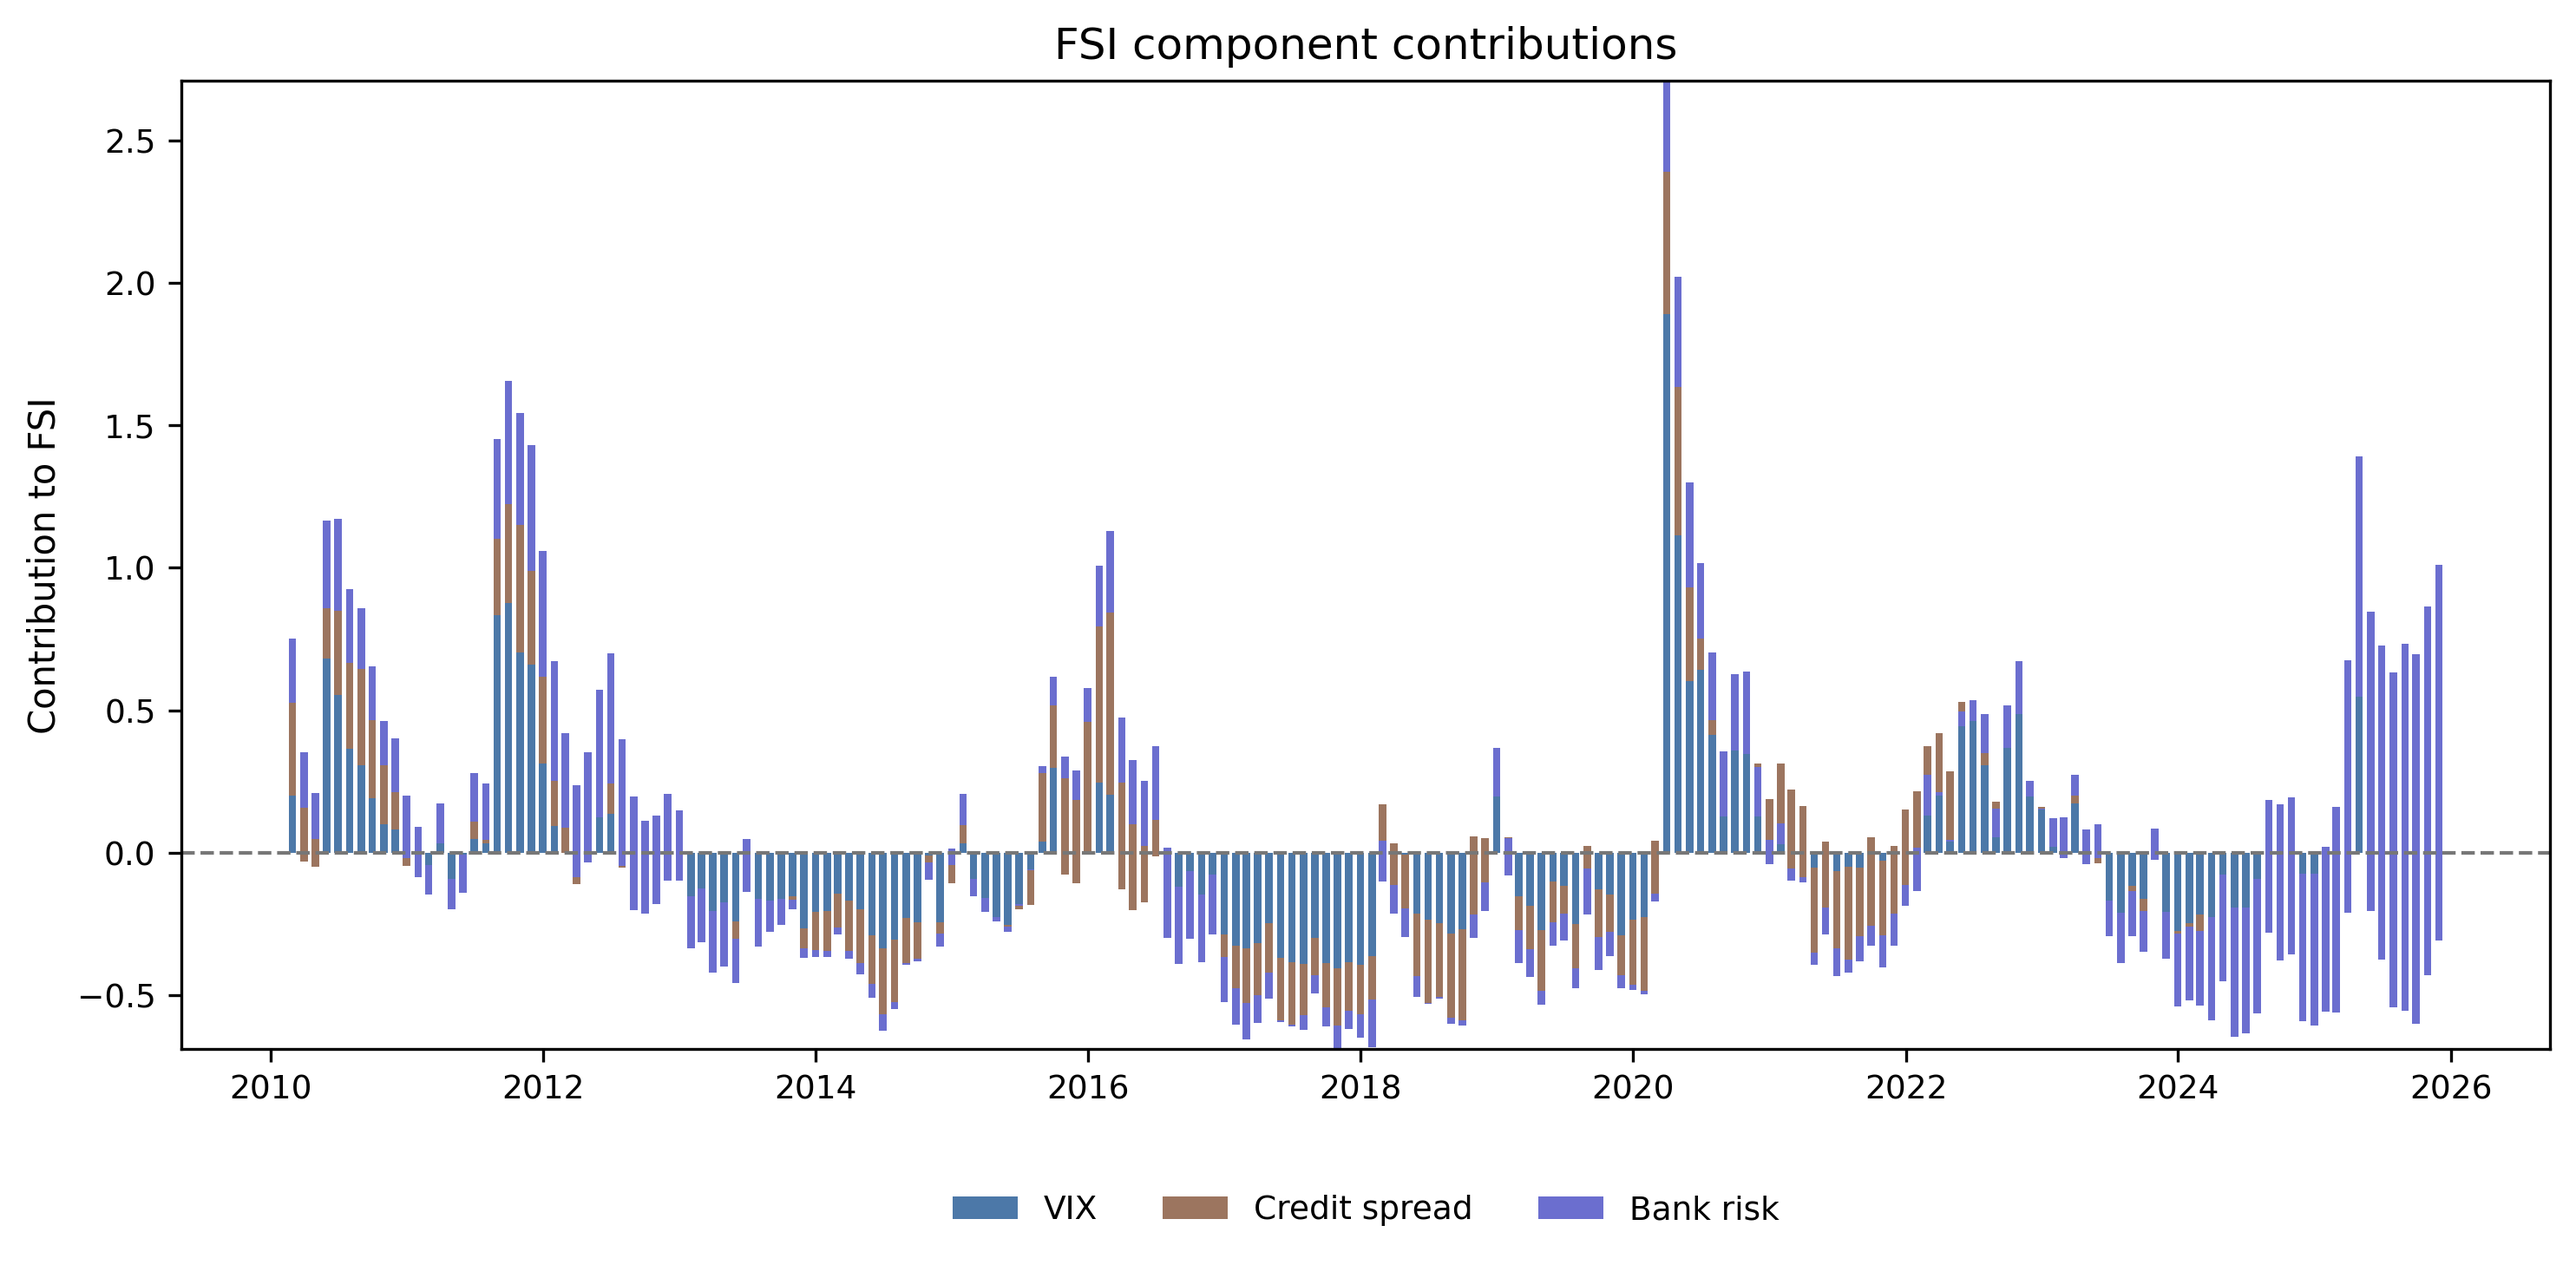
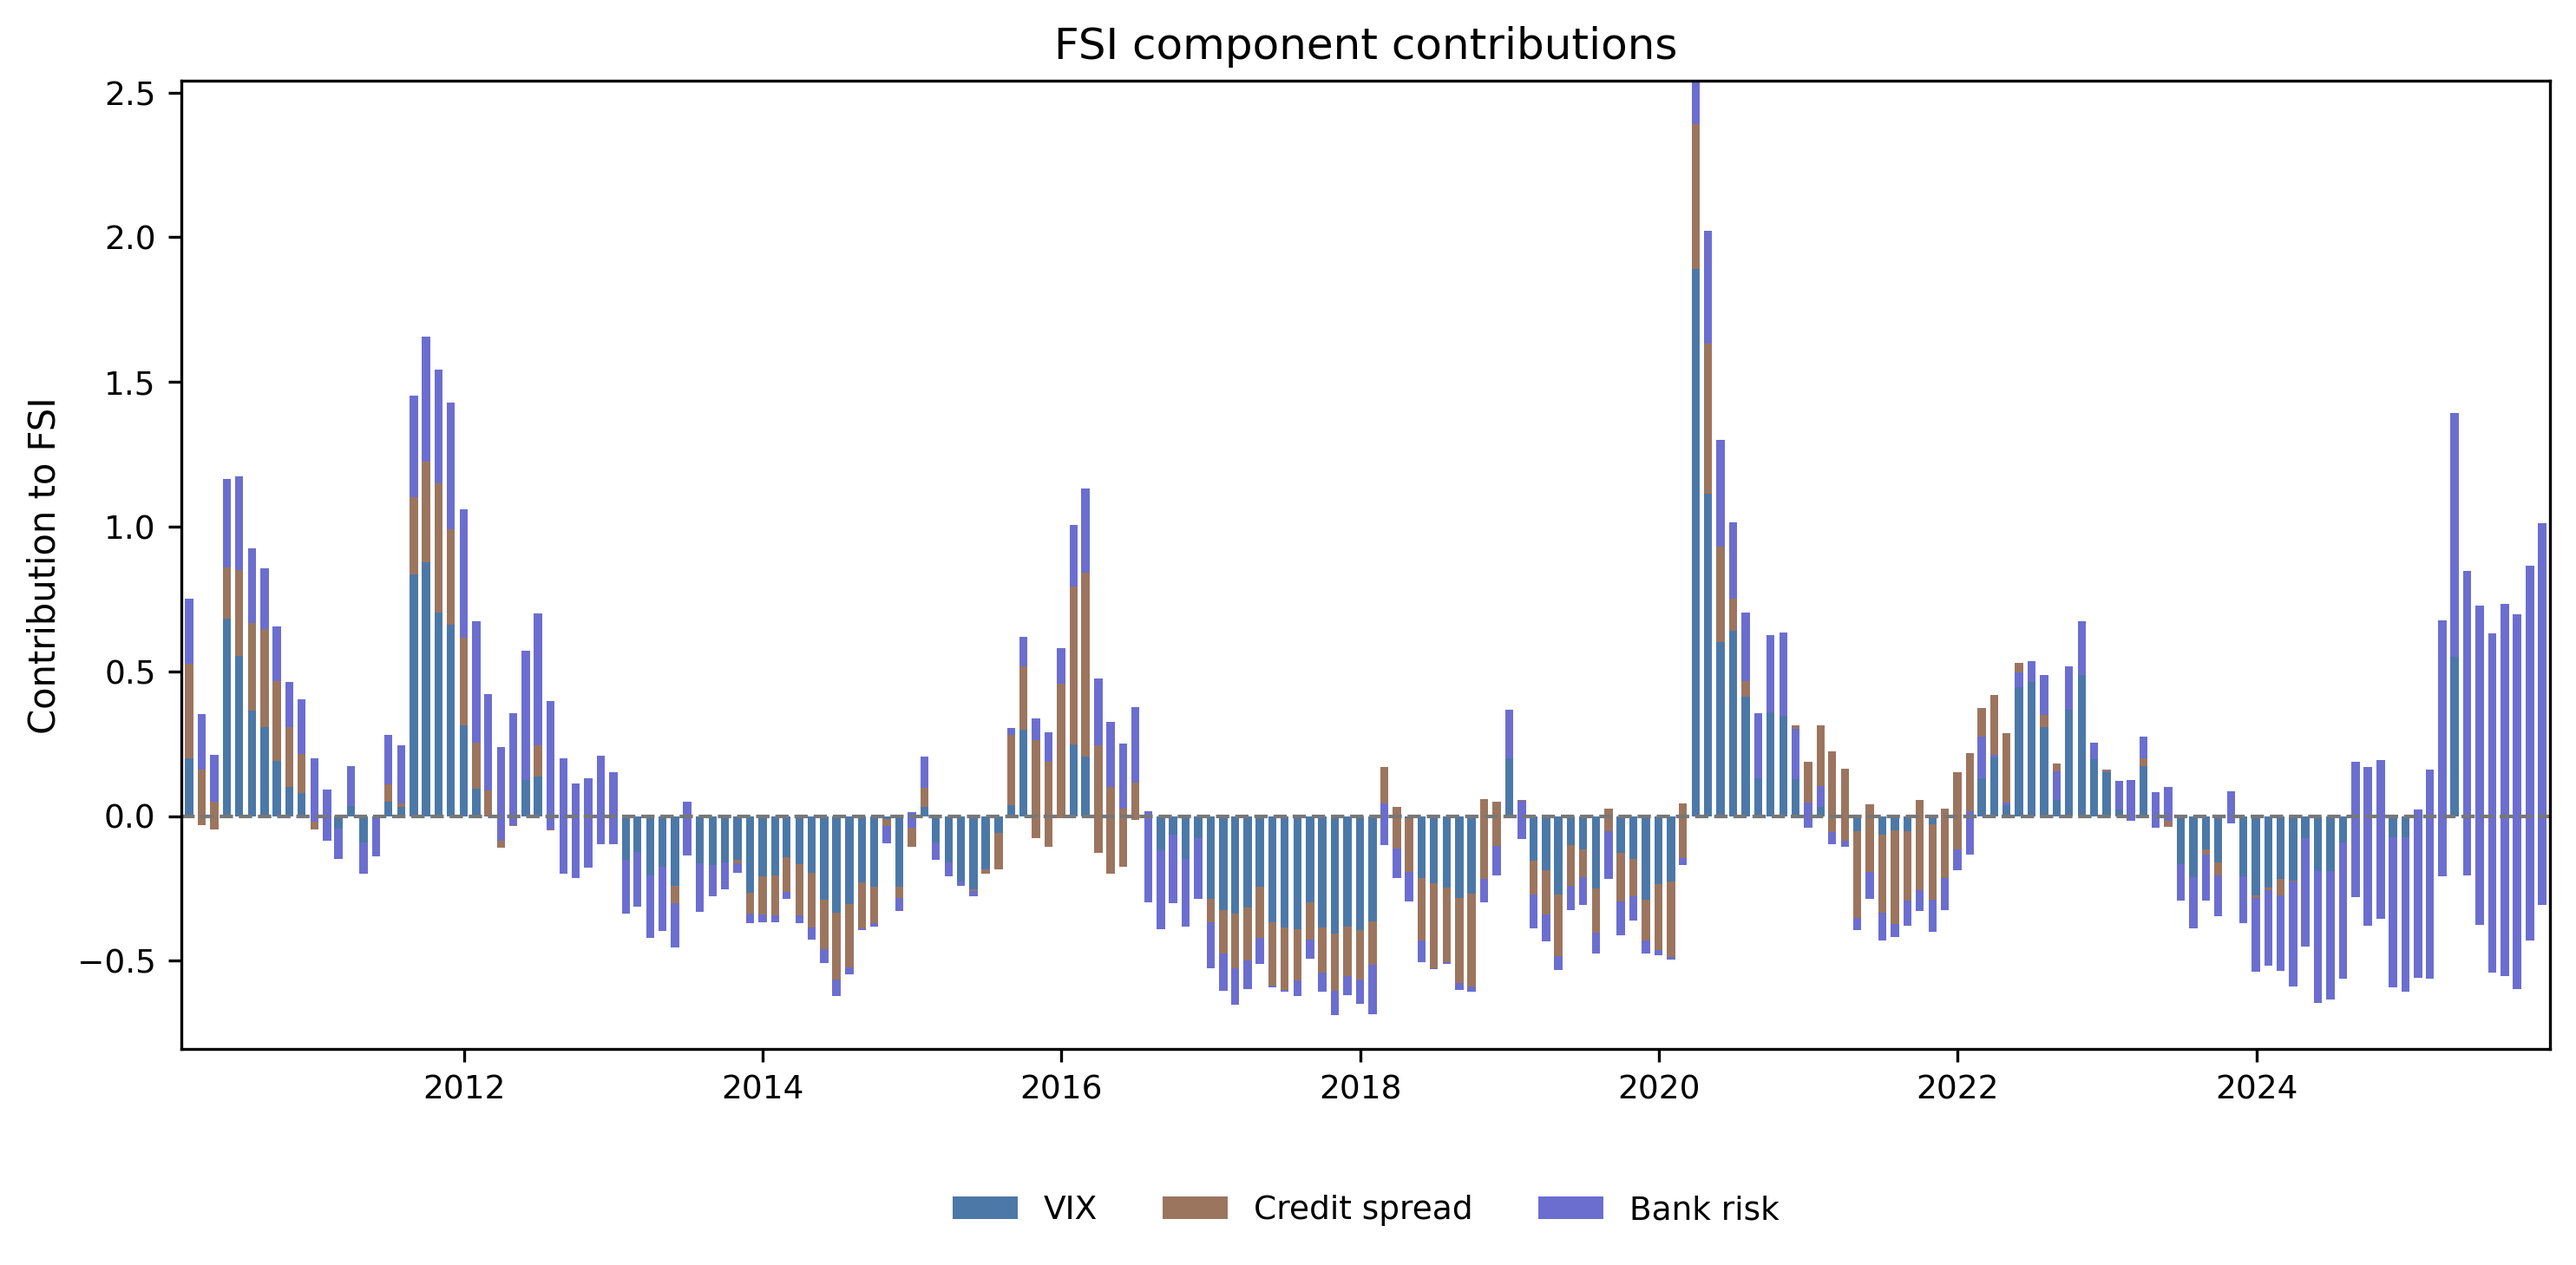
Tighten axes on FSI contribution bars

diff --git a/forecasting_script.py b/forecasting_script.py
@@ -168,6 +168,16 @@ def save_figures(
             color=colors["Bank risk"],
         )
 
+        y_min = min(vix_vals.min(), spread_vals.min(), bank_vals.min(), (vix_vals + spread_vals + bank_vals).min(), 0)
+        y_max = max(vix_vals.max(), spread_vals.max(), bank_vals.max(), (vix_vals + spread_vals + bank_vals).max(), 0)
+        pad = 0.05 * (y_max - y_min) if y_max != y_min else 0.1
+        ax.set_ylim(y_min - pad, y_max + pad)
+
+        ax.set_xlim(
+            plot_df.index.min() - pd.Timedelta(days=width),
+            plot_df.index.max() + pd.Timedelta(days=width),
+        )
+
         ax.set_title("FSI component contributions")
         ax.set_ylabel("Contribution to FSI")
         ax.tick_params(labelsize=9)
